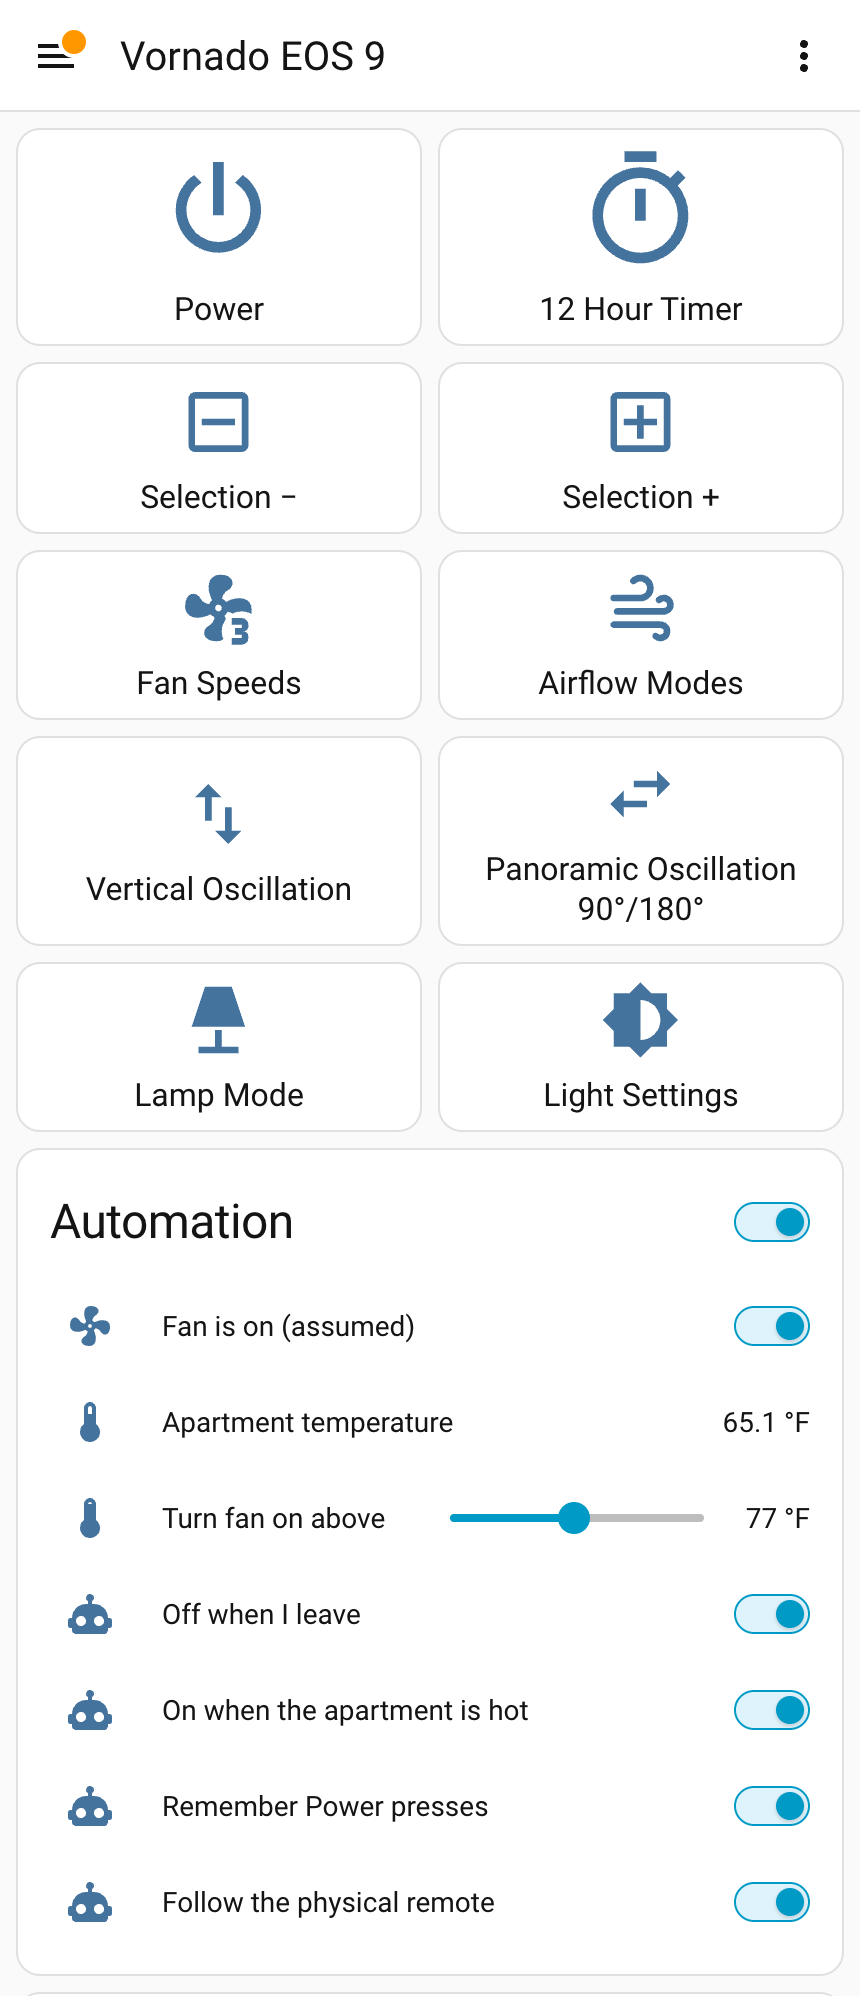
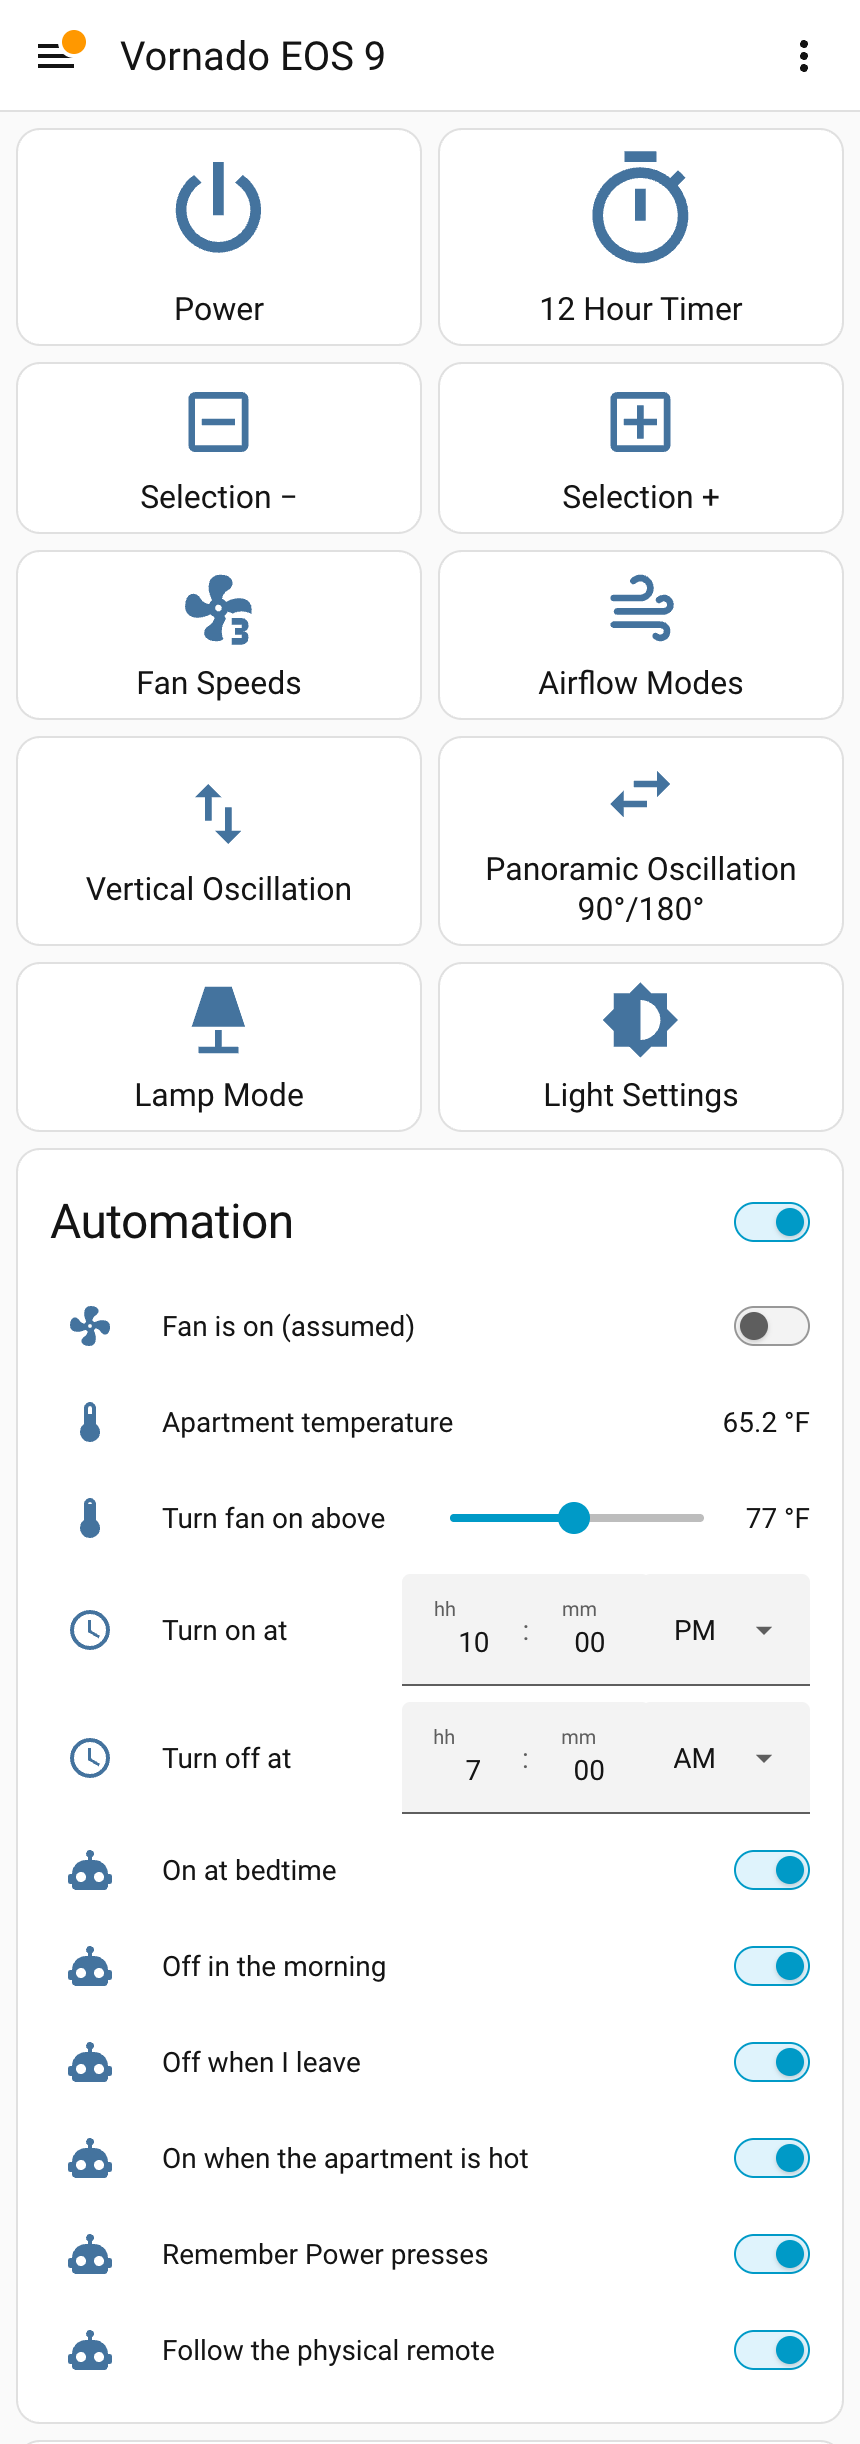
Gateway post: real remote test, three departures, bedtime schedule, Flipper section
Four presses of the real remote decoded at close range and flipped the
guess within the second; none from the bedroom (the gateway is at the west
kitchen window). Adds the 13:41, 17:33 and 21:08 departures from the
logbook, the 10 PM / 7 AM schedule, a short section on why the Flipper was
the closed-loop test vehicle, and the updated dashboard figure.

diff --git a/content/posts/vornado-fan-on-home-assistant/index.md b/content/posts/vornado-fan-on-home-assistant/index.md
@@ -131,6 +131,20 @@ when I moved the gateway to a room with no cable, it came back on Wi-Fi by
 itself. Firmware updates go over the network now; a build with a new version
 string booted from an OTA push in 25 seconds.
 
+## Testing with the Flipper
+
+The Flipper did most of the testing, and the reason is that it had already
+proven it could talk to the fan: the app from the last post makes frames the
+fan obeys. That made it a known-good reference in both directions. To test the
+gateway's transmitter, a script told the gateway to send over MQTT and had the
+Flipper's stock `subghz rx_raw` capture what went out on the air, then decoded
+the pulses and compared them with the real remote's timing (the table above).
+To test the receiver, the same script had the Flipper transmit a frame and
+checked what the gateway published. Both ran from the Mac with the Flipper on
+USB, so the whole loop, Home Assistant to MQTT to radio to air and back, could
+be tested without me at the fan or at the keyboard. Anything that could move
+the fan used the no-action codes, 0x400 and 0x800.
+
 ## Home Assistant
 
 Each button is an MQTT-discovery entity under one device, named as in
@@ -140,14 +154,18 @@ post: Fan Speeds and Airflow Modes are the buttons I captured as `Blade` and
 Flipper post. The buttons grey out when the gateway's last-will says it's
 offline.
 
-![The Fan dashboard in Home Assistant at phone width: ten buttons in two columns (Power, 12 Hour Timer, Selection minus and plus, Fan Speeds, Airflow Modes, Vertical Oscillation, Panoramic Oscillation 90/180, Lamp Mode, Light Settings), then an Automation card with the "Fan is on (assumed)" toggle, the apartment temperature at 65.1 F, a slider set to 77 F, and toggles for the four fan automations.](figs/fan-dashboard.png)
+![The Fan dashboard in Home Assistant at phone width: ten buttons in two columns (Power, 12 Hour Timer, Selection minus and plus, Fan Speeds, Airflow Modes, Vertical Oscillation, Panoramic Oscillation 90/180, Lamp Mode, Light Settings), then an Automation card with the "Fan is on (assumed)" toggle, the apartment temperature at 65.2 F, a slider set to 77 F, time pickers set to 10:00 PM and 7:00 AM, and toggles for the six fan automations.](figs/fan-dashboard.png)
 
 The fan reports nothing, and Power is a toggle. "Turn the fan off" can only
 mean "press Power if it's on," so Home Assistant keeps a guess: a "Fan is on
-(assumed)" helper that flips every time a Power command goes to the gateway.
-It listens on the MQTT command topic, so the dashboard, automations and scripts
-all count. Two automations read it:
+(assumed)" helper that flips every time a Power command goes to the gateway,
+whether it came from the dashboard, an automation or a script, and when the
+gateway hears the real remote's Power (below). Four automations read it:
 
+- **On at bedtime:** 10 PM, if I'm home and the guess says off, and again if I
+  get home later in that night window. I go to bed after 10; the fan starting
+  is the cue to head down.
+- **Off in the morning:** 7 AM, but only if the guess says on.
 - **Off when I leave:** ten minutes after I leave home (the same delay as my
   other leave-home automation, so a GPS blip doesn't count), it presses Power,
   but only if the guess says the fan is on.
@@ -155,10 +173,22 @@ all count. Two automations read it:
   minutes, only while I'm home and the guess says off. The threshold is a
   slider; I said hot is somewhere between 75 and 79 °F.
 
-Day one, on Home Assistant's log: I left at 13:41, and at 13:51 it pressed
-Power and the guess flipped to off. I left again at 17:33 with the fan
-believed off, and at 17:43 it did nothing, which is what the guess is for. The
-hot one hasn't fired; the apartment has stayed around 65 °F.
+Both schedule times are pickers on the dashboard. I used to leave the fan
+running all day. What I want is the fan on while I'm asleep, which a motion
+sensor in the bedroom would know and the clock only approximates, so the
+sensor is on the list.
+
+Three departures today, from Home Assistant's logbook:
+
+| I left | The guess was | What happened |
+|---|---|---|
+| 13:41:55 | on | 13:51:55 Power pressed, guess to off |
+| 17:33:24 | off | 17:43 nothing, which is what the guess is for |
+| 21:08:23 | on (set by hand) | 21:18:23 Power pressed, the gateway acknowledged the transmit a second later, guess to off |
+
+I was out for all three, so what I have is the log and the gateway's
+acknowledgement, not the fan. The hot rule hasn't fired; the apartment has
+stayed around 65 °F.
 
 ## One receiver for the remote and the sensors
 
@@ -183,16 +213,26 @@ guess when the button is Power, ignoring repeats for two seconds.
 
 With the Flipper alternating the fan's no-action code and a generic test
 remote that a stock rtl_433 decoder reads, all four sends decoded on the same
-receiver. Simulated
-presses checked the Home Assistant side: Power flips the guess, a repeat inside
-two seconds doesn't, and other buttons leave it alone. The real remote hasn't
-been pressed at it yet.
+receiver. Simulated presses checked the Home Assistant side: Power flips the
+guess, a repeat inside two seconds doesn't, and other buttons leave it alone.
+
+Then the real remote. Next to the gateway at 20:51 I pressed Power four times.
+Each press came through as one message at -55 to -72 dBm and flipped the guess
+within the same second: off, on, off, on, all four logged under "follow the
+physical remote". From my bedroom, earlier that minute, the presses didn't
+register. The gateway is at the kitchen's west window, a spot I picked for the
+weather sensor, and it doesn't hear the remote from there. That's a real wrinkle:
+a press the gateway misses leaves the guess wrong until the next command it
+does hear, and the rules trust the guess.
 
 ## Not done yet
 
 - Rewire it into a printed case, then put the PoE module on so it runs from
   one cable.
-- Press the real remote's Power and watch the guess follow it.
+- Hear the remote from the bedroom: a position that suits both the weather
+  sensor and the remote, or the numbers that say they can't share one.
+- A motion sensor in the bedroom, so the fan follows whether I'm there and the
+  clock stops standing in for it.
 - The weather sensors: the same receiver hears two of my neighbors' sensors,
   a different one from each kitchen window. That's the next post, after a week
   of comparing one against the forecast.
@@ -204,12 +244,16 @@ been pressed at it yet.
 *[How this was built](/how-i-work/): Claude Code wrote the firmware changes
 (the FIFO transmit, the USB logging fix, the Ethernet build, the Vornado
 decoder), the Home Assistant buttons, helpers, automations and dashboard, and
-the test scripts, including the Flipper check against the real remote and the
+the test scripts, including the Flipper checks against the real remote and the
 broker-log analysis that found the dropouts. I picked the board and the radio,
 set the constraint that the PoE module stays on, which decided the pins, wired
-and soldered it, chose what the automations do, and pushed back when Claude Code
-said one radio couldn't follow the remote and the weather sensors at once.
-Tested: Power on and off on the fan, the transmit timing against the real
-remote, the dropout fix, Ethernet and the Wi-Fi fallback, updates over the
-network, and the leave-home automation on two real departures. Not tested:
-following the real remote with a real press, and PoE power.*
+and soldered it, chose what the automations do and when, chose the Flipper as
+the test vehicle because it was already proven against the fan, and pushed back
+when Claude Code said one radio couldn't follow the remote and the weather
+sensors at once. Tested: Power on and off on the fan, the transmit timing
+against the real remote, the dropout fix, Ethernet and the Wi-Fi fallback,
+updates over the network, the real remote next to the gateway, and the
+leave-home rule on three real departures (by the log and the gateway's
+acknowledgement). Not tested: the fan itself switching off when I leave, the
+bedtime and morning schedule, hearing the remote from the bedroom, and PoE
+power.*
